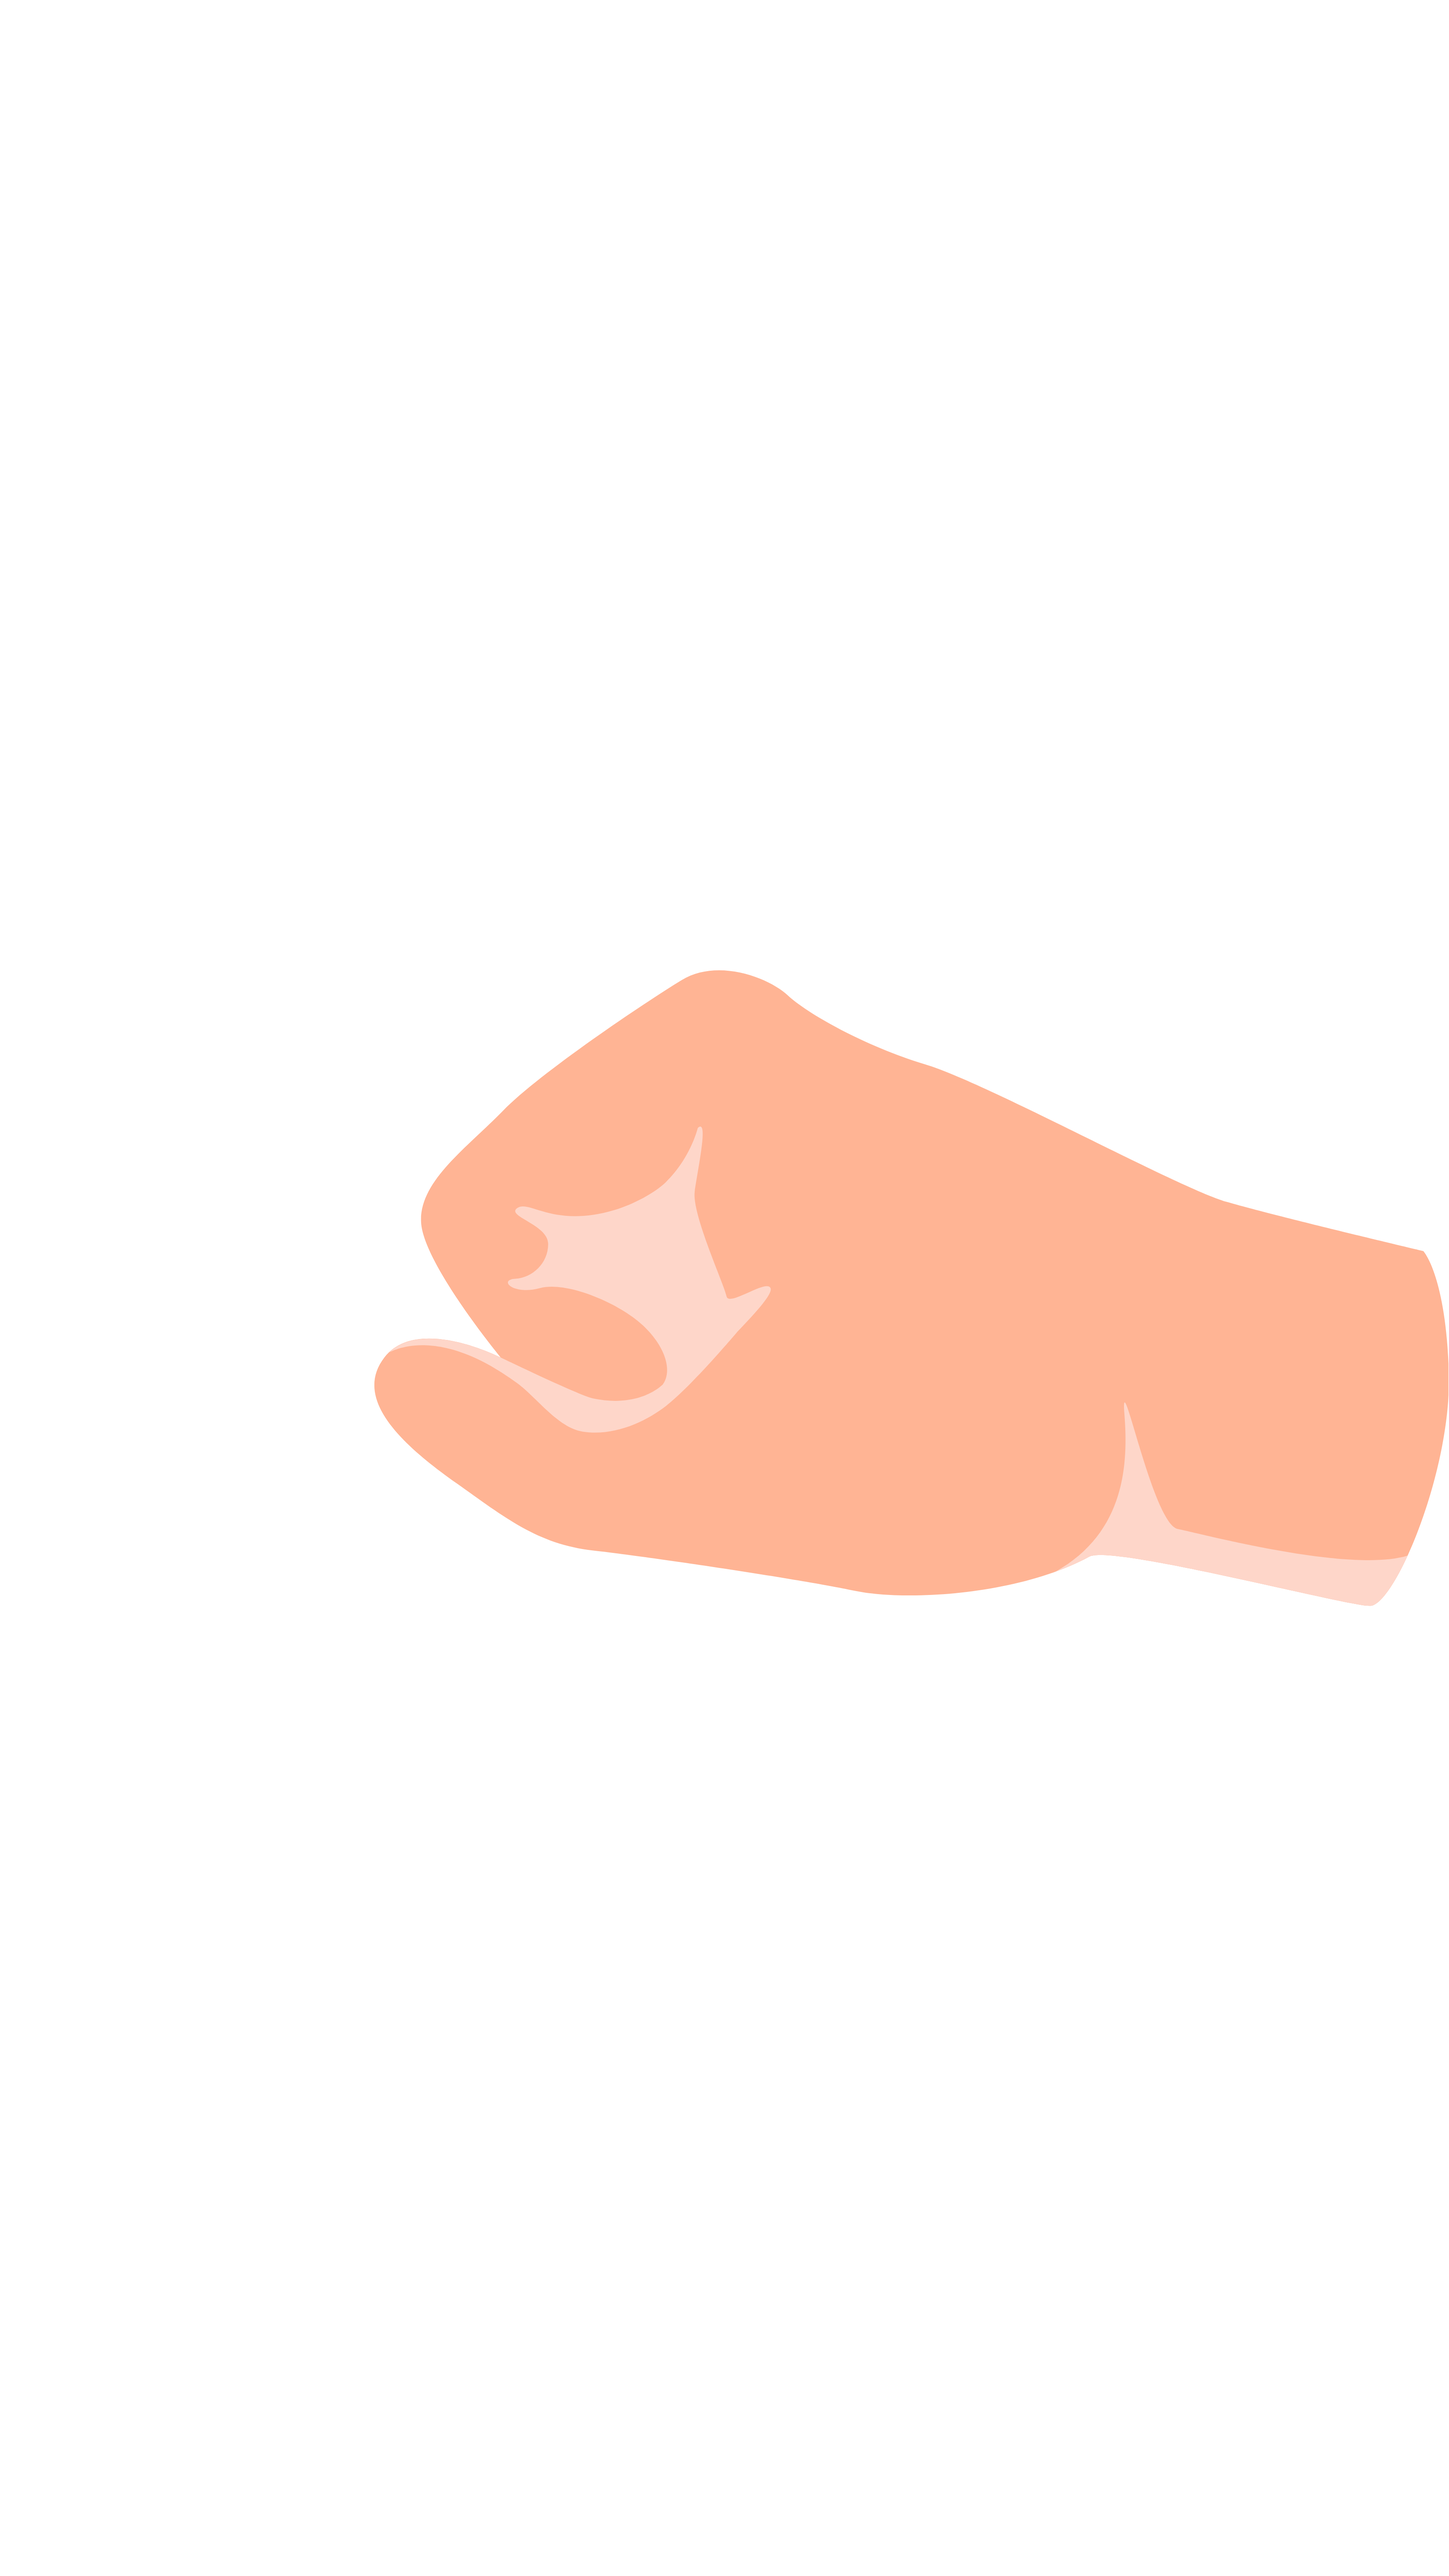
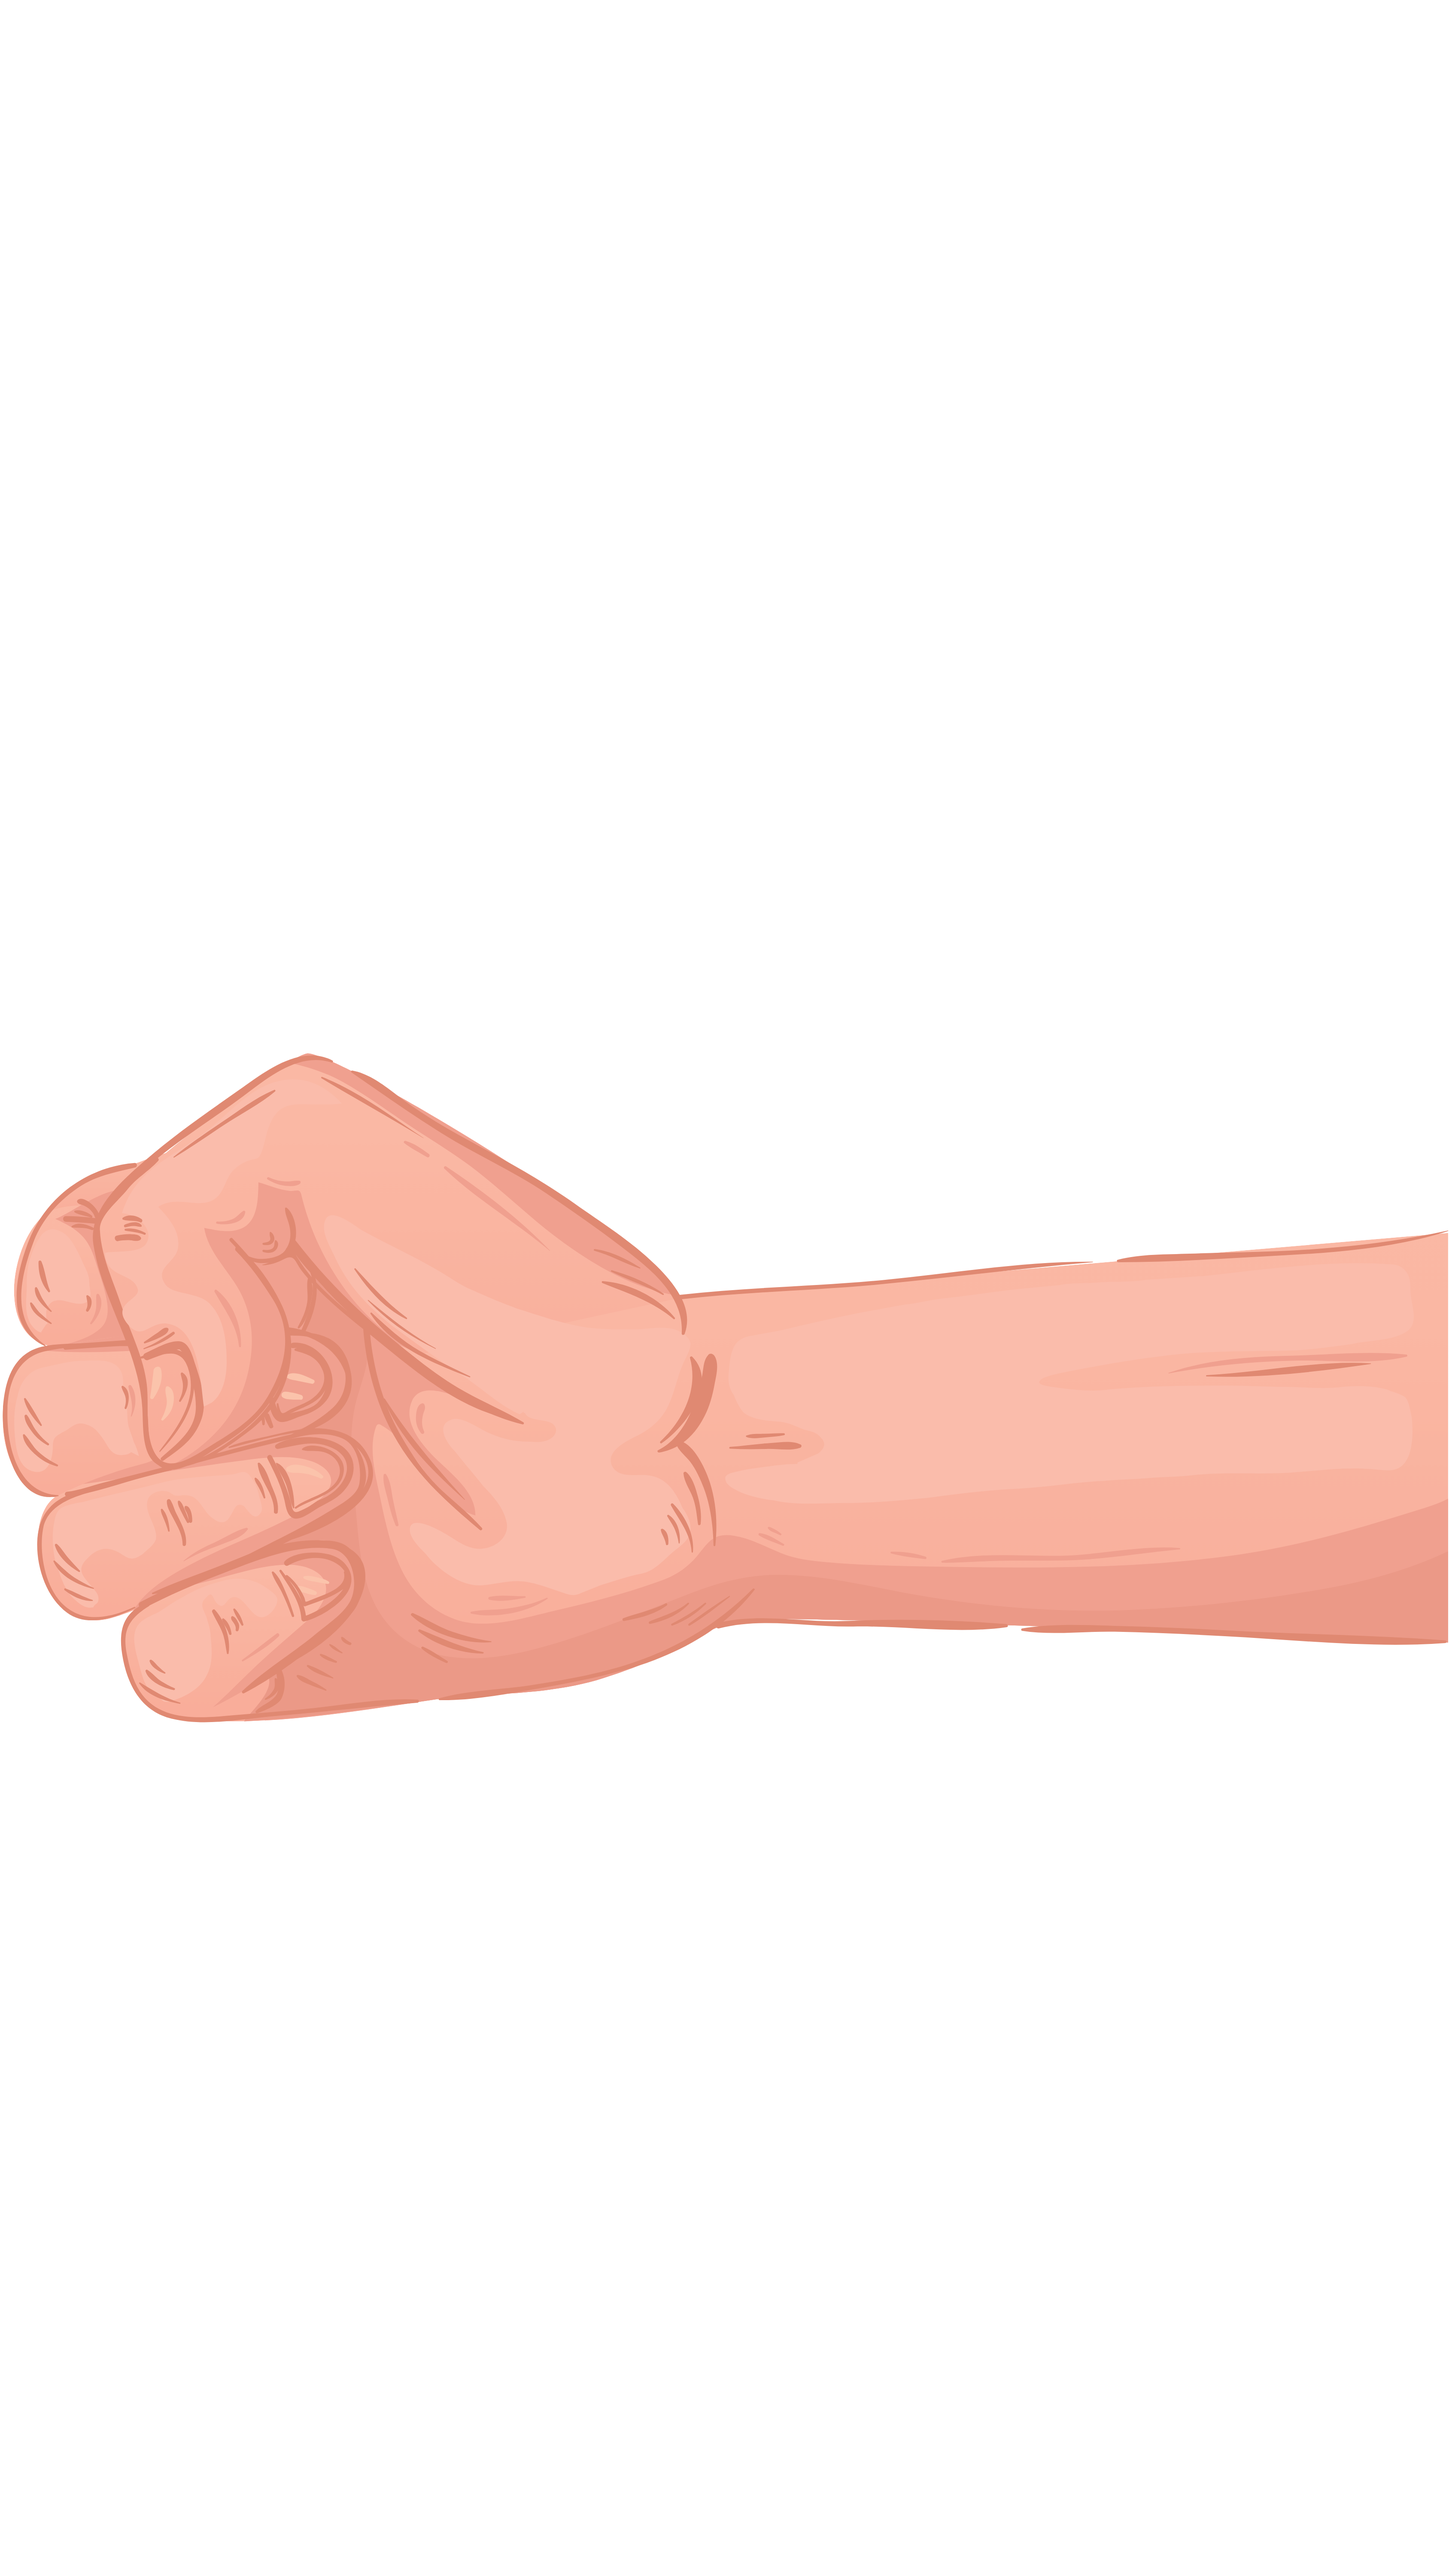
yes

Changed region(s): [[0.0, 0.374, 1.0, 0.6857]]

diff --git a/styles/dice-roll.css b/styles/dice-roll.css
@@ -225,6 +225,7 @@ button {
 
 .popup-content,
 .dice-popup-content {
+  position: relative; /* Ensure absolute children are positioned relative to this */
   background: #1e1e1e;
   padding: 20px;
   border-radius: 15px;
@@ -236,17 +237,17 @@ button {
   width: 90%;
   border: 2px solid #ffd700;
   overflow: hidden;
-  position: relative;
 }
 
-/* Hand Overlay: positioned above the dice canvas */
+
+/* Hand Overlay: Increase z-index so it appears above the canvas */
 .hand-overlay {
   position: absolute;
-  top: 0;
-  left: 50%;
-  transform: translate(-50%, -20%);
-  width: 150px;
-  z-index: 2;
+  top: -75%;
+  left: 20%;
+  transform: translate(-50%, -0%);
+  width: 350px; /* adjust as needed */
+  z-index: 20; /* Higher than dice canvas */
   pointer-events: none;
   transition: opacity 0.5s ease, transform 0.5s ease;
 }
@@ -282,6 +283,7 @@ button {
   margin: 20px auto 0 auto;
   position: relative;
   overflow: hidden;
+  z-index: 1; /* Lower than hand overlay */
 }
 
 /* Fade-in Animation */

diff --git a/app/dice-roll/page.tsx b/app/dice-roll/page.tsx
@@ -404,7 +404,7 @@ export default function DiceRollPage() {
       {showDicePopup && (
         <div className="popup-overlay" onClick={() => setShowDicePopup(false)}>
           <div className="dice-popup-content" onClick={(e) => e.stopPropagation()}>
-            <h3>{handState === "hidden" ? "Dice Result 🎲" : "Hand Holding Dice..."}</h3>
+            <h3>{handState === "hidden" ? "Dice Result 🎲" : ""}</h3>
             {/* Hand overlay with animated transitions */}
             {handState !== "hidden" && (
               <aWeb.img
